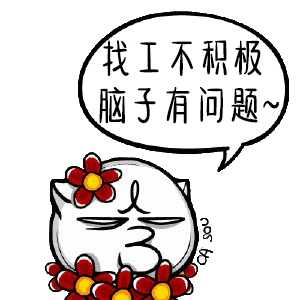
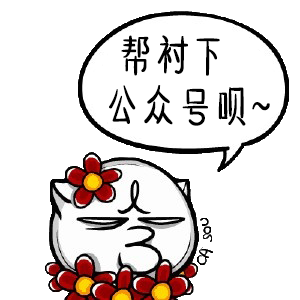
WeChat public accounts,date button.

Changed region(s): [[0.33, 0.12, 0.93, 0.42]]

diff --git a/jobclock.html b/jobclock.html
@@ -17,23 +17,24 @@
 				<div class="head-CD2"><div class="head-CD2-inner">您的秋招余额已不足&nbsp;<span id="head-CD2-days"></span>&nbsp;天</div></div>
 			</div>
 			<div class="head-card">
-				<a href="javascript:void(0)" class="head-card-item"><span>9</span>月<span>16</span>日</a>
-				<a href="javascript:void(0)" class="head-card-item"><span>9</span>月<span>17</span>日</a>
-				<a href="javascript:void(0)" class="head-card-item"><span>9</span>月<span>18</span>日</a>
-				<a href="javascript:void(0)" class="head-card-item"><span>9</span>月<span>19</span>日</a>
-				<a href="javascript:void(0)" class="head-card-item hovered"><span>9</span>月<span>20</span>日</a>
-				<a href="javascript:void(0)" class="head-card-item"><span>9</span>月<span>21</span>日</a>
-				<a href="javascript:void(0)" class="head-card-item"><span>9</span>月<span>22</span>日</a>
-				<a href="javascript:void(0)" class="head-card-item"><span>9</span>月<span>23</span>日</a>
-				<a href="javascript:void(0)" class="head-card-item"><span>9</span>月<span>24</span>日</a>
-				<a href="javascript:void(0)" class="head-card-item"><span>9</span>月<span>25</span>日</a>
+				<a href="javascript:void(0)" class="head-card-item"><span></span>月<span></span>日</a>
+				<a href="javascript:void(0)" class="head-card-item"><span></span>月<span></span>日</a>
+				<a href="javascript:void(0)" class="head-card-item"><span></span>月<span></span>日</a>
+				<a href="javascript:void(0)" class="head-card-item"><span></span>月<span></span>日</a>
+				<a href="javascript:void(0)" class="head-card-item hovered"><span>9</span>月<span></span>日</a>
+				<a href="javascript:void(0)" class="head-card-item"><span></span>月<span></span>日</a>
+				<a href="javascript:void(0)" class="head-card-item"><span></span>月<span></span>日</a>
+				<a href="javascript:void(0)" class="head-card-item"><span></span>月<span></span>日</a>
+				<a href="javascript:void(0)" class="head-card-item"><span></span>月<span></span>日</a>
+				<a href="javascript:void(0)" class="head-card-item"><span></span>月<span></span>日</a>
 			</div>
 		</div>
 	</div>
 
 	<div class="main">
 		<div class="main-left">
-			<img src="./image/miao1.png" alt="miao1" style="width:150px;height:150px;" class="miao-left">
+			<img src="./image/miao0.png" alt="miao0" style="width:150px;height:150px;" class="miao-left">
+			<div class="public"><img src="./image/publicQR.png" alt="publicQR" style="width:150px;height:150px;" class="publicQR"></div>
 		</div>
 		<div class="main-content">
 			<div class="main-info">

diff --git a/script/time.js b/script/time.js
@@ -1,16 +1,17 @@
+var time = new Date();
 
-function time(){
-	var time = new Date();
+// 当前时间显示
+function showTime(){
 	var year = time.getFullYear();
 	var month = time.getMonth() + 1;
 	var date = time.getDate();
-	var day = getDay(time.getDay());
+	var day = getXingqi(time.getDay());
 	var hour = correctTime(time.getHours());
 	var minute = correctTime(time.getMinutes());
 	document.getElementById("head-time").innerHTML = (year+"年"+month+"月"+date+"日&nbsp;"+day+"&nbsp;"+hour+":"+minute);
 }
 
-function getDay(day){
+function getXingqi(day){
 	switch (day) {
 		case 1:return "星期一";break;
 		case 2:return "星期二";break;
@@ -39,17 +40,13 @@ function correctTime(num){
 	}
 }
 
-var clockStart = setInterval(time,1000);
-
-
-
+// 两个倒计时
 function countdown(){
-	var now = new Date().getTime();
+	var now = time.getTime();
 	var graduate = new Date(2017,6,1).getTime();
 	var autumn = new Date(2016,11,31);
 	var countdown1 = graduate - now;
 	var countdown2 = autumn - now;
-
 
 	var d1 = Math.floor(countdown1/1000/3600/24);
 	document.getElementById("head-CD1-days").innerHTML = d1;
@@ -57,4 +54,25 @@ function countdown(){
 	document.getElementById("head-CD2-days").innerHTML = d2;
 }
 
-var countStart = setInterval(countdown,1000);
+// 根据当前日期显示导航栏日期按钮组
+function defaultDateToShow(){
+	var now = time.getTime();
+	var aDay = 86400000;
+	for(var i=0;i<10;i++){
+		if(i <= 4){
+			$(".head-card-item:eq("+i+")").children("span")[0].innerHTML = new Date(now-(4-i)*aDay).getMonth() + 1;
+			$(".head-card-item:eq("+i+")").children("span")[1].innerHTML = new Date(now-(4-i)*aDay).getDate();
+		}else{
+			$(".head-card-item:eq("+i+")").children("span")[0].innerHTML = new Date(now+(i-4)*aDay).getMonth() + 1;
+			$(".head-card-item:eq("+i+")").children("span")[1].innerHTML = new Date(now+(i-4)*aDay).getDate();
+		}
+	}
+}
+
+
+// 时间日期相关入口函数
+$(document).ready(function(){
+	var clockStart = setInterval(showTime,1000);
+	var countStart = setInterval(countdown,1000);
+	defaultDateToShow();
+});

diff --git a/script/main.js b/script/main.js
@@ -52,8 +52,9 @@ $(document).ready(function(){
 	});
 });
 
-// 显示联系信息
+// 显示联系信息入口函数
 $(".contact").hide();
+$(".public").hide();
 $(document).ready(function(){
 	$(".miao-right").mouseenter(function(){
 		$(".contact").fadeIn(300);
@@ -62,5 +63,14 @@ $(document).ready(function(){
 	$(".miao-right").mouseleave(function(){
 		$(".contact").fadeOut(300);
 		$(".miao-right").attr("src","./image/miao2.png");
+	});
+
+	$(".miao-left").mouseenter(function(){
+		$(".public").fadeIn(300);
+		$(".miao-left").attr("src","./image/miao1.png");
+	});
+	$(".miao-left").mouseleave(function(){
+		$(".public").fadeOut(300);
+		$(".miao-left").attr("src","./image/miao0.png");
 	});
 });

diff --git a/css/main.css b/css/main.css
@@ -190,7 +190,7 @@ body{
 	margin-left: 25%;
 }
 
-.contactQR{
+.publicQR,.contactQR{
 	width: 150px;
 	height: 150px;
 	margin-left: 25%;

diff --git a/script/getdata.php b/script/getdata.php
@@ -1,0 +1,6 @@
+<?php
+	$connect = new mysqli("127.0.0.1:8080","root","root","job");
+	$result = $connect->query("SELECT * FROM '926'");
+	$row = $result->fetch_assoc();
+	echo htmlentities($row['_message']);
+?>
